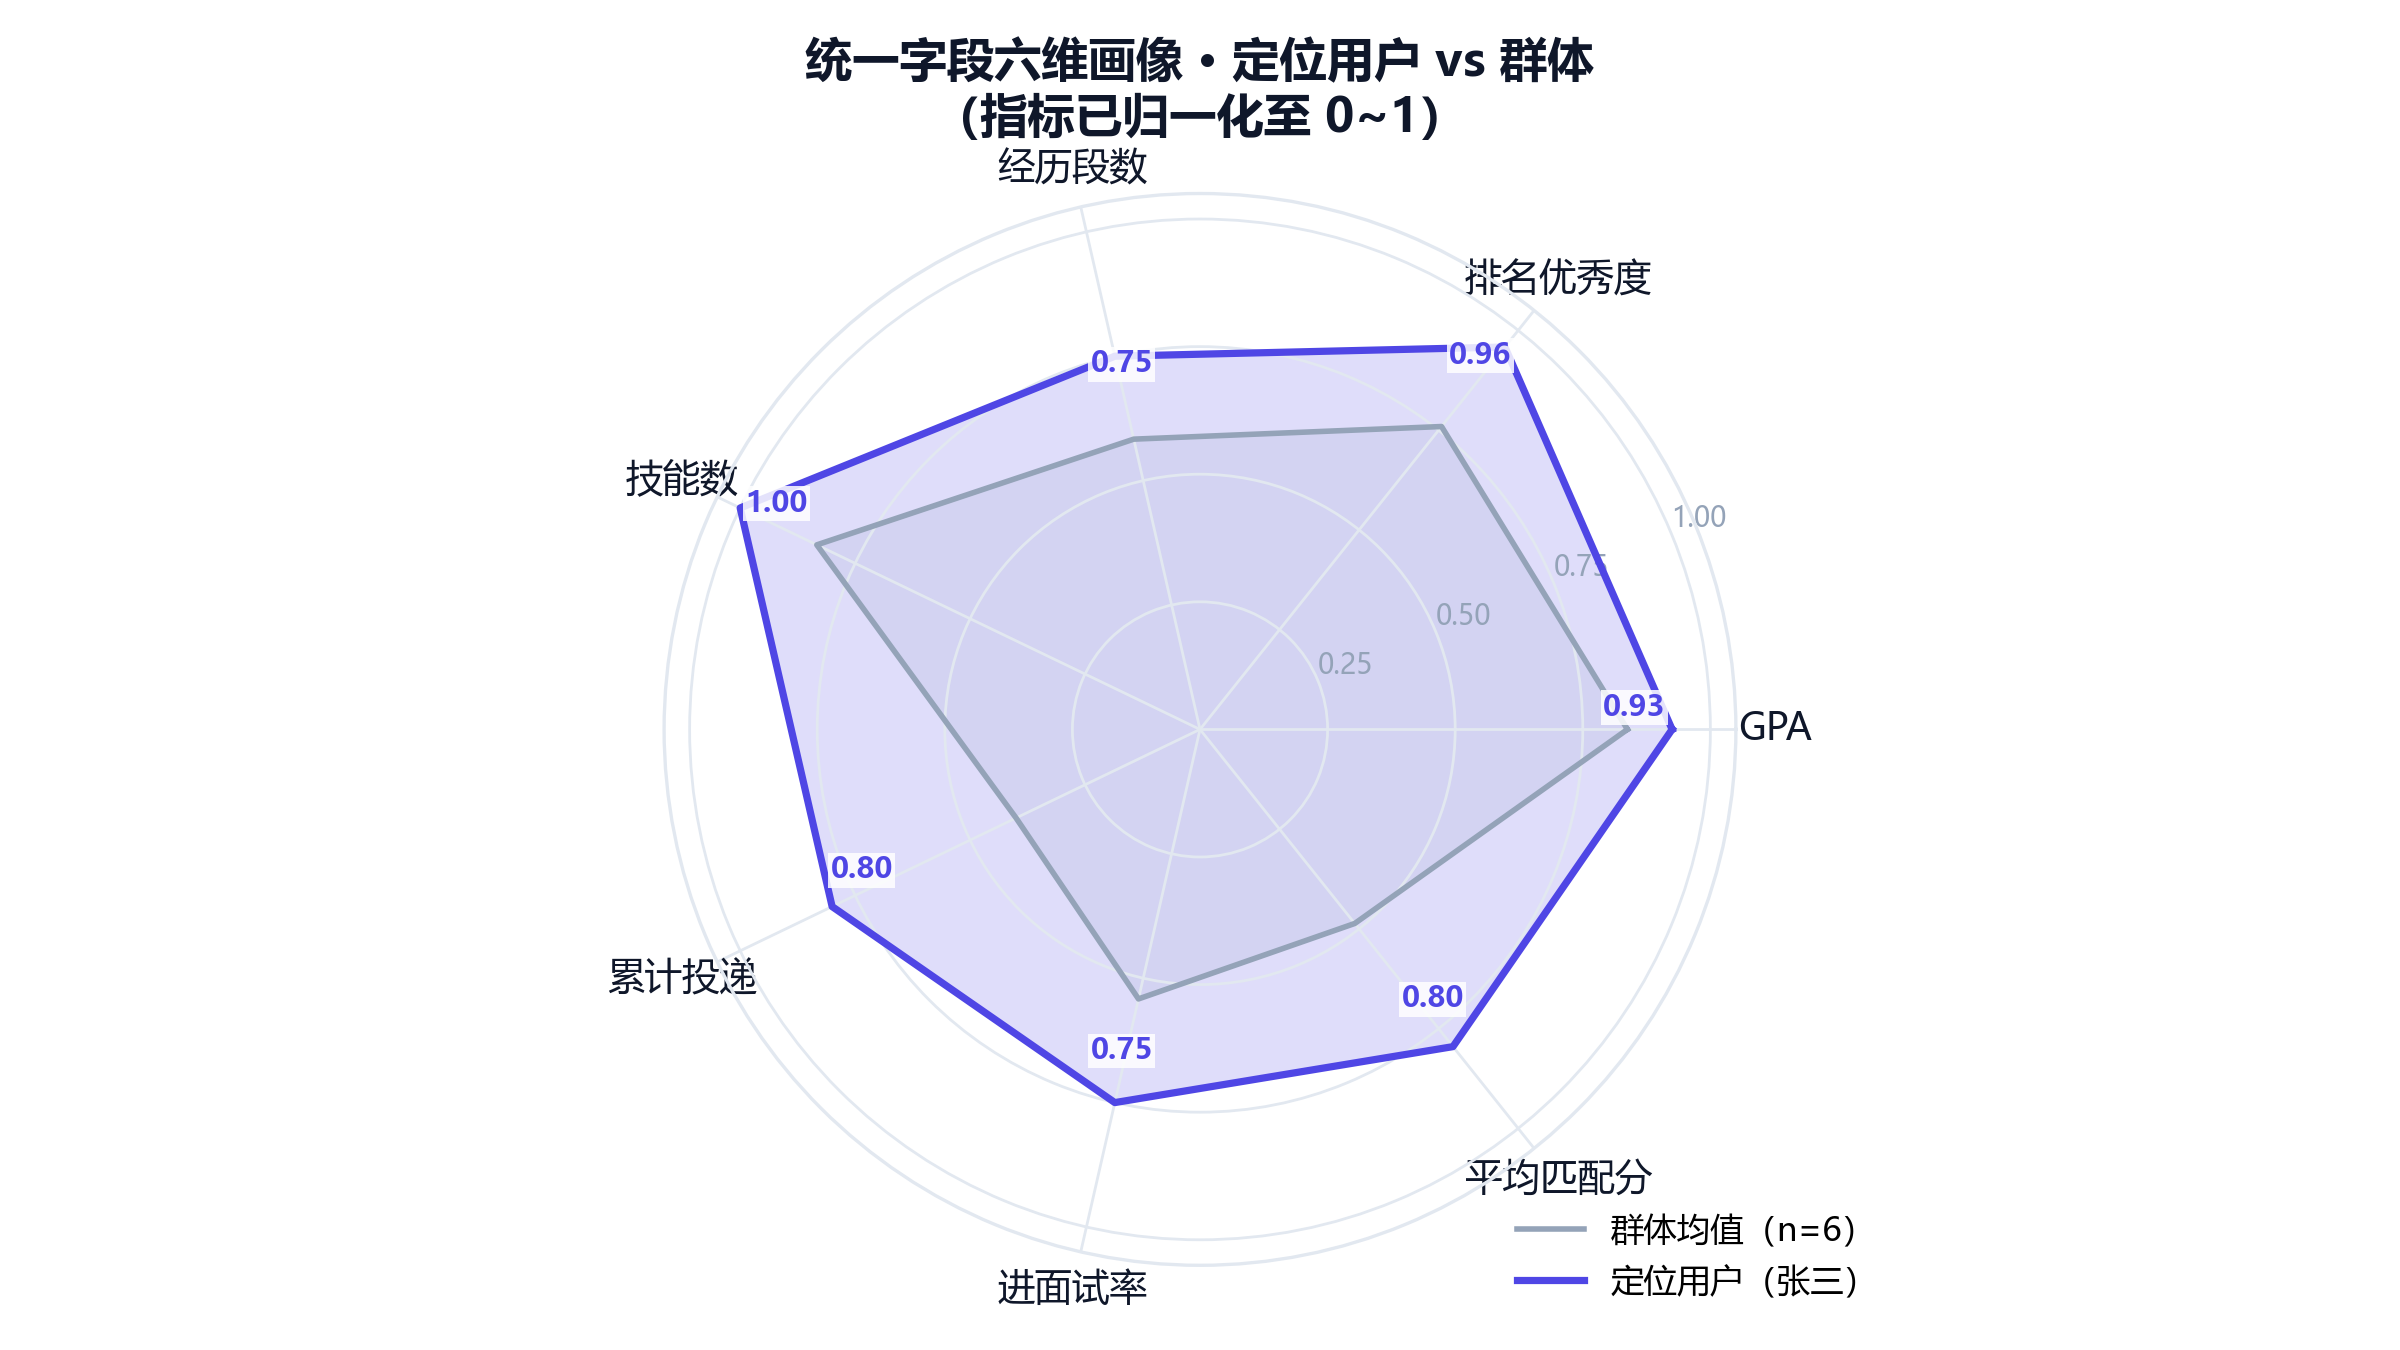
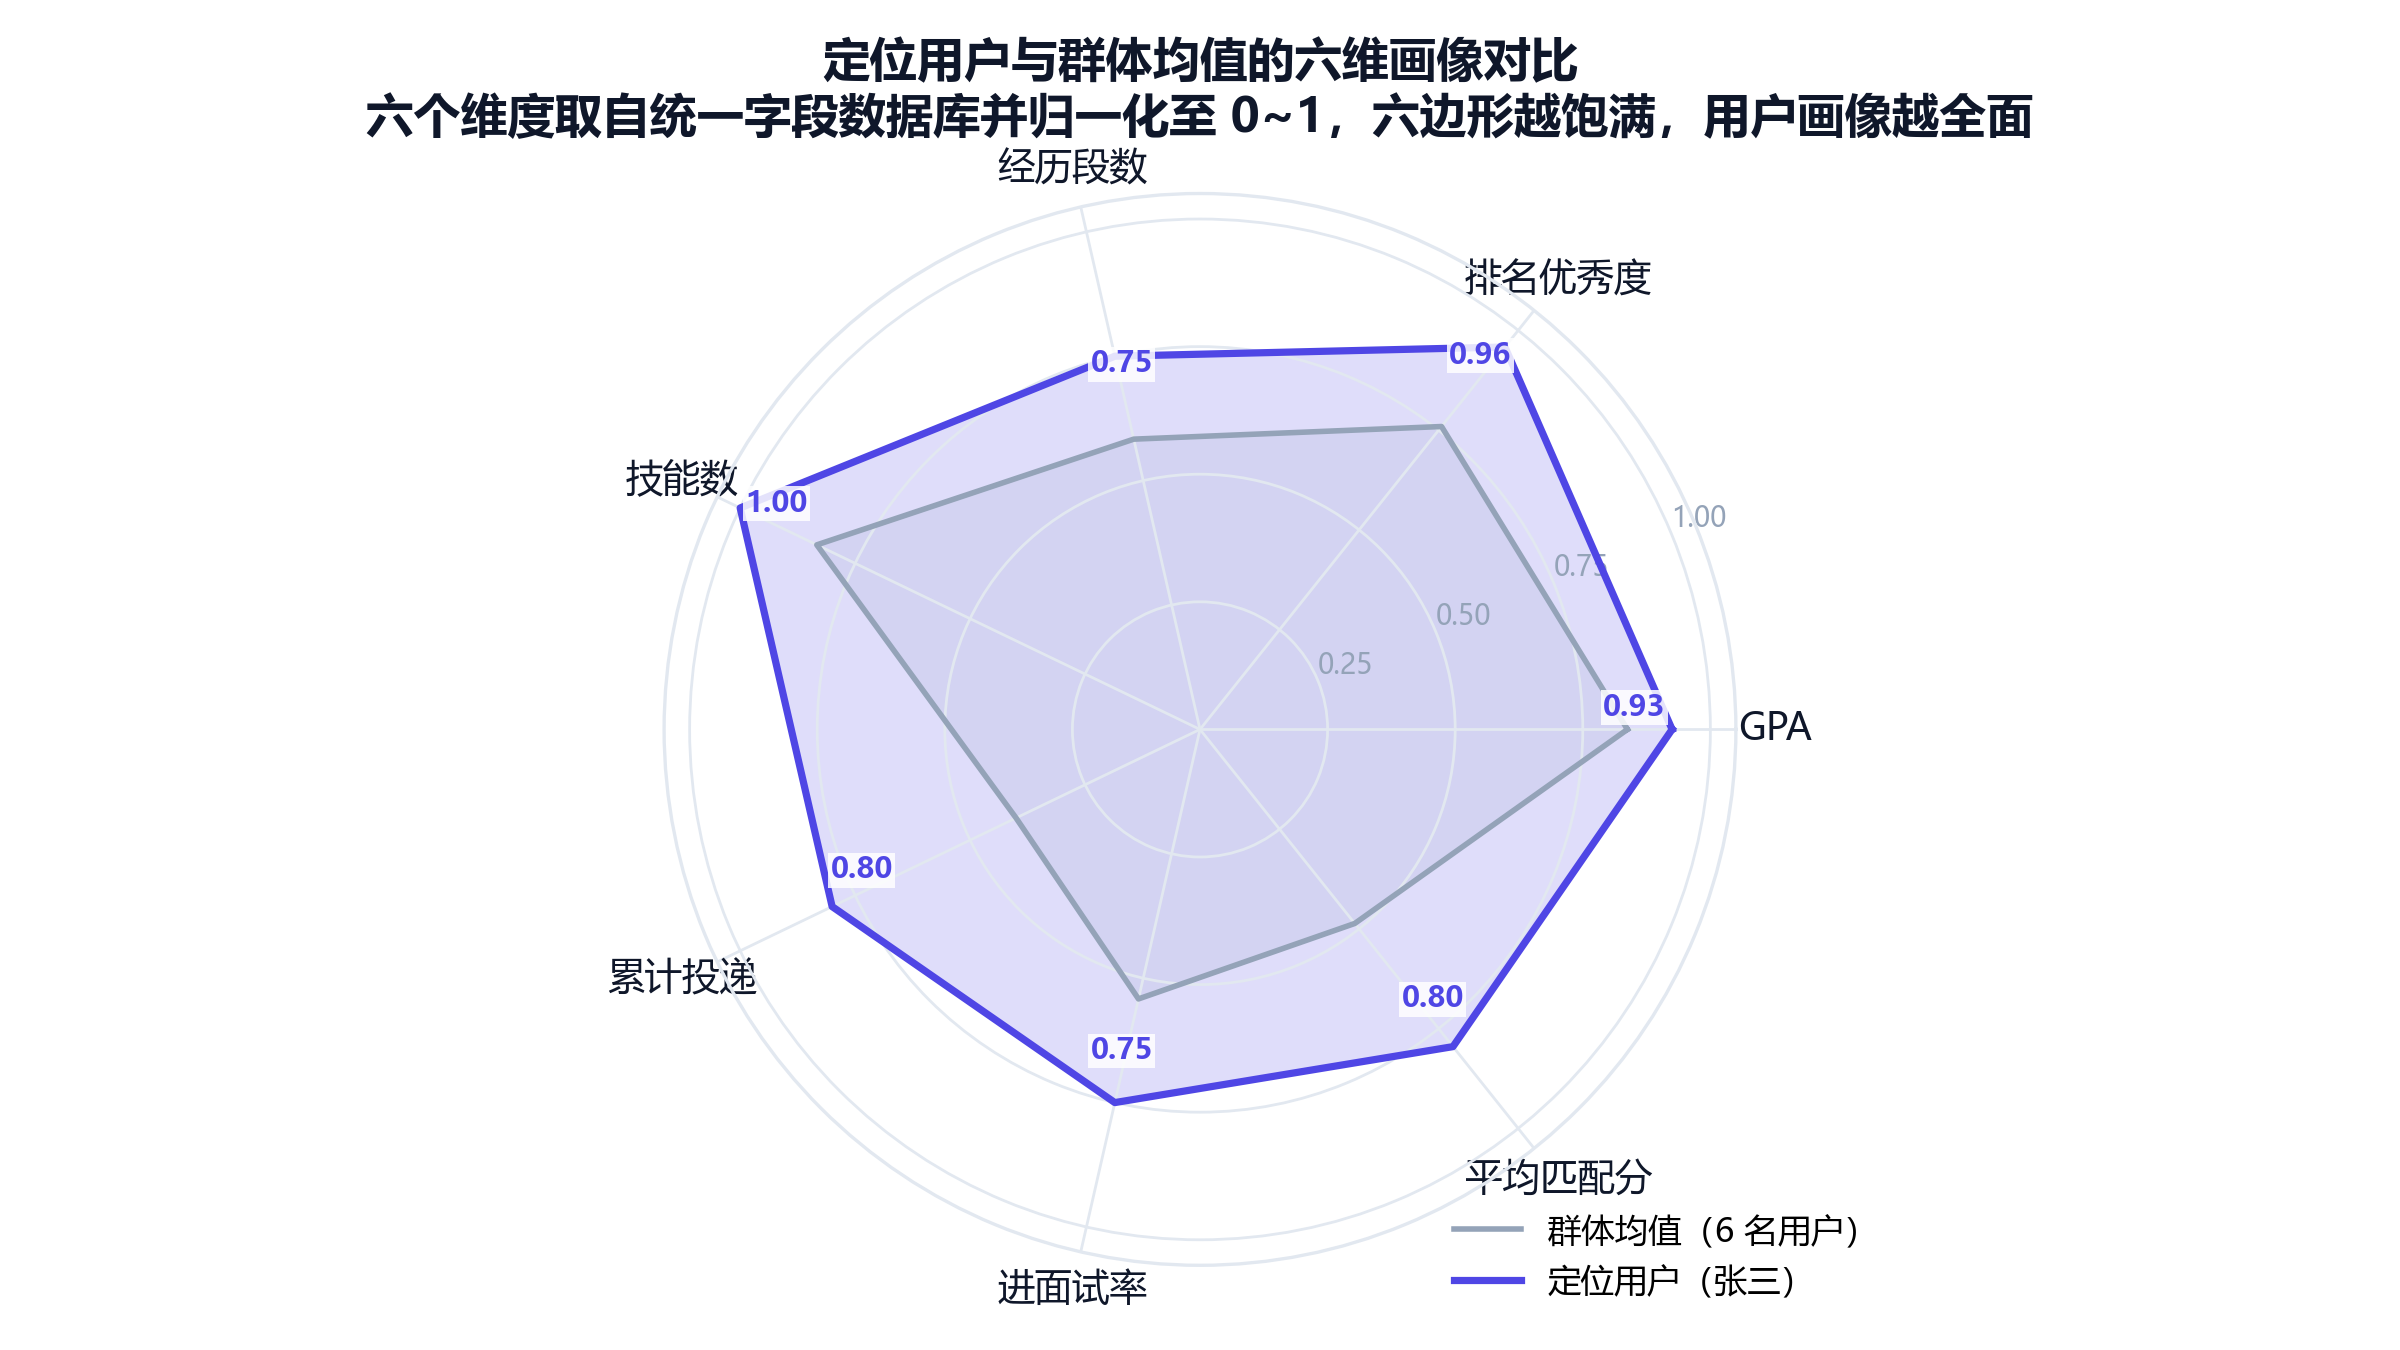
docs(defense): 答辩图改双层表达——白话结论给领导看,公式术语给评委看
- 标题第一行讲人话结论,第二行给技术表述(公式编号与物理含义绑定)
- 缩写首次出现给全称:主成分分析(PCA)、两倍标准差椭圆、反馈修正项 δ
- 每张图附一句白话读法:夹角越小越匹配/六边形越饱满画像越全面/点距反映画像差异

Changed region(s): [[0.1562, 0.0311, 0.8438, 0.1244], [0.5938, 0.9022, 0.7812, 0.9644]]

diff --git a/_defense_figs.py b/_defense_figs.py
@@ -2,6 +2,11 @@
 
 数据源为本机演示库（6 个用户，式一 user_vec 与统一字段指标），
 运行：python _defense_figs.py  →  docs/defense/fig1~4.png
+
+图面文字规范（防御性书面汉语）：
+- 公式编号首次出现必须与物理含义绑定，如"（式一·凸组合模型）"；
+- 缩写首次出现给全称，如"主成分分析（PCA）"、"两倍标准差椭圆"；
+- 每张图脱离上下文独立成立，评委只看这一页也能读懂。
 """
 import json
 import os
@@ -71,14 +76,15 @@ def fig1(ids, names, X):
     _style_ax(ax)
     t_idx = ids.index(next(i for i in ids if names[i] == TARGET_NAME))
 
-    # 群体分布 2σ 椭圆
+    # 群体分布两倍标准差椭圆
     cov = np.cov(proj.T)
     vals, vecs = np.linalg.eigh(cov)
     ang = np.degrees(np.arctan2(vecs[1, 1], vecs[0, 1]))
     w, h = 2 * 2.0 * np.sqrt(np.maximum(vals, 1e-12))
     ax.add_patch(Ellipse(proj.mean(axis=0), w, h, angle=ang,
                          facecolor=PRIMARY, alpha=0.07, edgecolor=PRIMARY,
-                         linewidth=1.2, linestyle="--", zorder=1, label="群体分布（2σ 椭圆）"))
+                         linewidth=1.2, linestyle="--", zorder=1,
+                         label="用户群体的分布范围（两倍标准差椭圆）"))
 
     others = [i for i in range(len(ids)) if i != t_idx]
     ax.scatter(proj[others, 0], proj[others, 1], s=90, c=MUTED, alpha=0.9,
@@ -96,14 +102,15 @@ def fig1(ids, names, X):
     ax.annotate(TARGET_NAME, proj[t_idx], xytext=(14, 10), textcoords="offset points",
                 fontsize=13.5, color=ACCENT, fontweight="bold")
     mid = proj[t_idx] / 2
-    ax.annotate("式一用户向量 u", mid, xytext=(10, -20),
+    ax.annotate("%s的用户表示向量 u（式一）" % TARGET_NAME, mid, xytext=(10, -24),
                 textcoords="offset points", fontsize=12.5, color=ACCENT,
                 fontweight="bold",
                 bbox=dict(fc="white", ec="none", alpha=0.85, pad=1.5))
 
-    ax.set_xlabel("PC1（解释方差 %.1f%%）" % (var[0] * 100), color=SLATE)
-    ax.set_ylabel("PC2（解释方差 %.1f%%）" % (var[1] * 100), color=SLATE)
-    ax.set_title("超几何空间画像 · 语义空间用户定位\n式一凸组合用户表示经 PCA 投影至二维",
+    ax.set_xlabel("第一主成分（解释 %.1f%% 的方差）" % (var[0] * 100), color=SLATE)
+    ax.set_ylabel("第二主成分（解释 %.1f%% 的方差）" % (var[1] * 100), color=SLATE)
+    ax.set_title("超几何空间画像：每个用户都是语义空间中的一个点\n"
+                 "简历信息经凸组合模型（式一）生成用户表示向量，再由主成分分析（PCA）投影至二维平面",
                  fontsize=17, color=INK, fontweight="bold", pad=14)
     ax.legend(loc="best", frameon=False, fontsize=12)
     pad = 0.35 * np.ptp(proj[:, 0])
@@ -132,7 +139,7 @@ def fig2(feat):
     tvals += tvals[:1]; mvals += mvals[:1]; ang += ang[:1]
 
     fig, ax = plt.subplots(figsize=(12, 6.75), dpi=200, subplot_kw=dict(polar=True))
-    ax.plot(ang, mvals, color=MUTED, linewidth=2, label="群体均值（n=6）")
+    ax.plot(ang, mvals, color=MUTED, linewidth=2, label="群体均值（6 名用户）")
     ax.fill(ang, mvals, color=MUTED, alpha=0.12)
     ax.plot(ang, tvals, color=PRIMARY, linewidth=2.6, label="定位用户（%s）" % TARGET_NAME)
     ax.fill(ang, tvals, color=PRIMARY, alpha=0.18)
@@ -147,7 +154,8 @@ def fig2(feat):
         ax.annotate("%.2f" % v, (a, v * 0.92), xytext=(0, 5), textcoords="offset points",
                     ha="center", fontsize=10.5, color=PRIMARY, fontweight="bold",
                     bbox=dict(fc="white", ec="none", alpha=0.85, pad=0.8))
-    ax.set_title("统一字段六维画像 · 定位用户 vs 群体\n（指标已归一化至 0~1）",
+    ax.set_title("定位用户与群体均值的六维画像对比\n"
+                 "六个维度取自统一字段数据库并归一化至 0~1，六边形越饱满，用户画像越全面",
                  fontsize=17, color=INK, fontweight="bold", pad=22)
     ax.legend(loc="lower right", bbox_to_anchor=(1.16, -0.06), frameon=False, fontsize=12)
     fig.tight_layout()
@@ -165,12 +173,13 @@ def fig3():
 
     origin = np.array([0.0, 0.0])
     uvec = np.array([1.0, 0.0])
-    jobs = [("岗位A", 16, ACCENT, "cosθ=0.96", "A 级强匹配"),
-            ("岗位B", 42, GOLD, "cosθ=0.74", None),
-            ("岗位C", 78, MUTED, "cosθ=0.21", "淘汰")]
+    jobs = [("岗位A", 16, ACCENT, "cosθ = 0.96", "强匹配"),
+            ("岗位B", 42, GOLD, "cosθ = 0.74", None),
+            ("岗位C", 78, MUTED, "cosθ = 0.21", "低于阈值，淘汰")]
     ax.add_patch(FancyArrowPatch(origin, uvec, arrowstyle="-|>", mutation_scale=26,
                                  color=PRIMARY, linewidth=3.2, zorder=4))
-    ax.text(0.55, -0.09, "用户向量 u（式一）", color=PRIMARY, fontsize=13.5, fontweight="bold")
+    ax.text(0.5, -0.1, "用户表示向量 u（式一）", color=PRIMARY, fontsize=13.5,
+            fontweight="bold")
     for name, deg, color, note, verdict in jobs:
         v = np.array([np.cos(np.radians(deg)), np.sin(np.radians(deg))]) * 0.92
         ax.add_patch(FancyArrowPatch(origin, v, arrowstyle="-|>", mutation_scale=18,
@@ -182,11 +191,14 @@ def fig3():
                     color=color, fontsize=10.5, ha="center",
                     bbox=dict(fc="white", ec="none", alpha=0.85, pad=0.8))
     th = np.linspace(0, np.radians(42), 40)
-    ax.plot(0.4 * np.cos(th), 0.4 * np.sin(th), color=SLATE, linewidth=1.4, linestyle="--")
-    ax.text(0.47, 0.13, "θ", fontsize=15, color=SLATE, style="italic")
+    ax.plot(0.32 * np.cos(th), 0.32 * np.sin(th), color=SLATE, linewidth=1.4, linestyle="--")
+    ax.text(0.375, 0.055, "θ", fontsize=15, color=SLATE, style="italic")
     ax.set_xlim(-0.15, 1.35); ax.set_ylim(-0.3, 1.15)
     ax.set_xticks([]); ax.set_yticks([])
-    ax.set_title("式二 · 向量空间的匹配几何\ncos(u, j) = u·j / (|u||j|)",
+    ax.text(-0.1, -0.22, "夹角越小，岗位与用户的匹配程度越高",
+            fontsize=12, color=SLATE)
+    ax.set_title("用户与岗位的匹配程度由向量夹角度量（式二）\n"
+                 "余弦相似度 cos(u, j) = u·j ∕ (|u|·|j|)",
                  fontsize=14.5, color=INK, fontweight="bold", pad=10)
 
     ax2 = fig.add_subplot(gs[1])
@@ -200,9 +212,13 @@ def fig3():
         ax2.annotate(lb, (xv, yv), xytext=(0, 9), textcoords="offset points",
                      ha="center", fontsize=12, color=cv, fontweight="bold")
     ax2.axhline(0.5, color=LINE, linewidth=1, linestyle="--")
-    ax2.set_xlabel("综合输入  w_s·cosθ + w_δ·δ", color=SLATE)
+    ax2.text(-0.98, 0.86, "冷启动时反馈修正项 δ = 0\n产生投递反馈后 δ 参与打分",
+             fontsize=10.5, color=SLATE,
+             bbox=dict(fc="white", ec=LINE, alpha=0.9, pad=4))
+    ax2.set_xlabel("综合输入（s 为余弦相似度，δ 为反馈修正项）", color=SLATE)
     ax2.set_ylabel("匹配分 p", color=SLATE)
-    ax2.set_title("式三 · 匹配分映射\np = σ(w_s·s + w_δ·δ)，冷启动 δ=0，反馈后 δ 生效",
+    ax2.set_title("匹配分数由逻辑斯谛函数映射生成（式三）\n"
+                  "p = σ(w_s·s + w_δ·δ)",
                   fontsize=14.5, color=INK, fontweight="bold", pad=10)
     ax2.set_xlim(-1.05, 1.05); ax2.set_ylim(-0.05, 1.05)
 
@@ -244,11 +260,13 @@ def fig4(ids, names, X):
         ax.set_box_aspect((1.2, 1, 0.8))
     except Exception:
         pass
-    ax.set_xlabel("PC1 (%.0f%%)" % (var[0] * 100), color=SLATE, labelpad=10, fontsize=13)
-    ax.set_ylabel("PC2 (%.0f%%)" % (var[1] * 100), color=SLATE, labelpad=10, fontsize=13)
-    ax.set_zlabel("PC3 (%.0f%%)" % (var[2] * 100), color=SLATE, labelpad=10, fontsize=13)
+    ax.set_xlabel("第一主成分（%.0f%%）" % (var[0] * 100), color=SLATE, labelpad=10, fontsize=13)
+    ax.set_ylabel("第二主成分（%.0f%%）" % (var[1] * 100), color=SLATE, labelpad=10, fontsize=13)
+    ax.set_zlabel("第三主成分（%.0f%%）" % (var[2] * 100), color=SLATE, labelpad=10, fontsize=13)
     ax.tick_params(labelsize=10, colors=MUTED)
-    ax.set_title("超几何空间画像 · 三维投影\n高维用户表示在前三主成分上的分布",
+    ax.set_title("超几何空间画像：用户群体在三维主成分空间中的分布\n"
+                 "前三个主成分累计解释 %.0f%% 的方差，点与点的距离反映用户画像的差异"
+                 % (var[:3].sum() * 100),
                  fontsize=17, color=INK, fontweight="bold", pad=16)
     ax.view_init(elev=22, azim=-52)
     for pane in (ax.xaxis, ax.yaxis, ax.zaxis):
